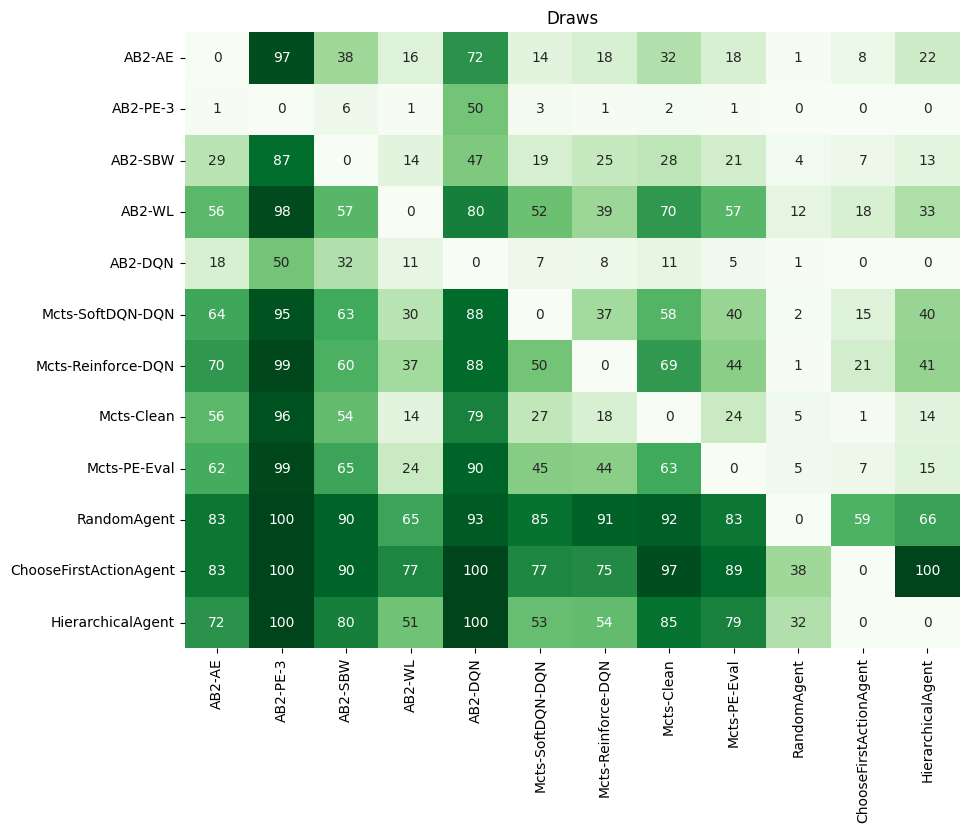
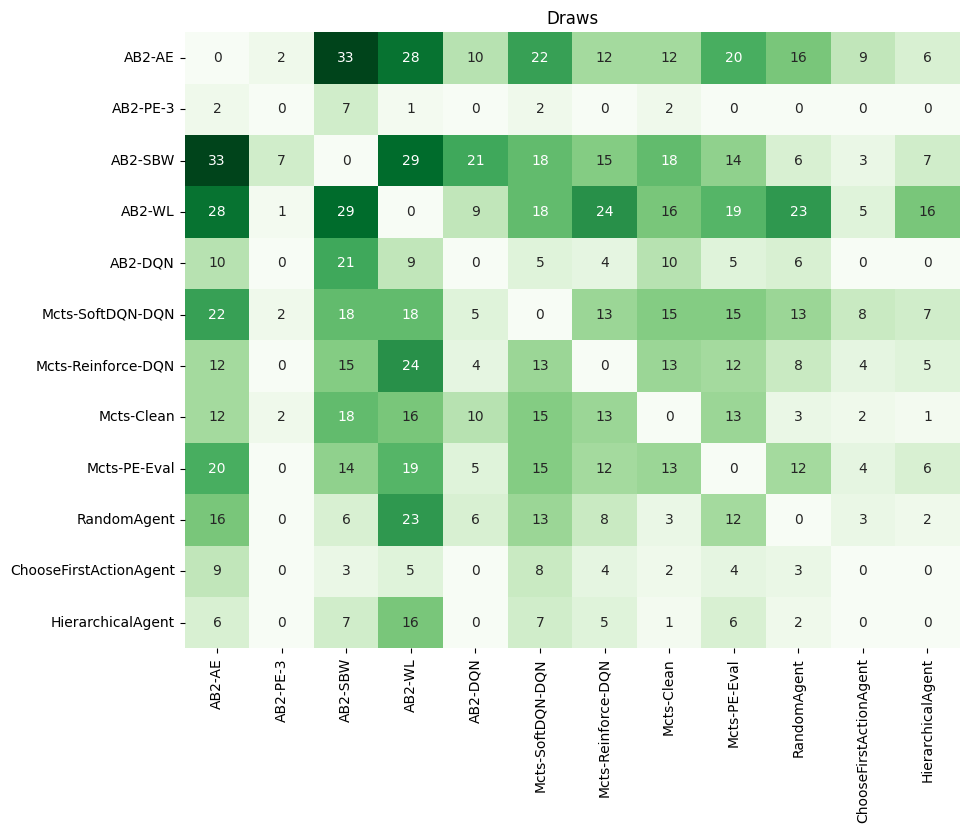
fix: Draws plot

diff --git a/evaluate/evaluate_agents.py b/evaluate/evaluate_agents.py
@@ -231,7 +231,7 @@ class AgentsEvaluator:
         self._set_plot_metadata_and_save('Losses', save_plot=save_plot)
 
         plt.figure(3, figsize=(10, 8))
-        self._plot_heatmap(losses_df, cmap="Greens")
+        self._plot_heatmap(draws_df, cmap="Greens")
         self._set_plot_metadata_and_save('Draws', save_plot=save_plot)
 
         # bar plot for total scores
